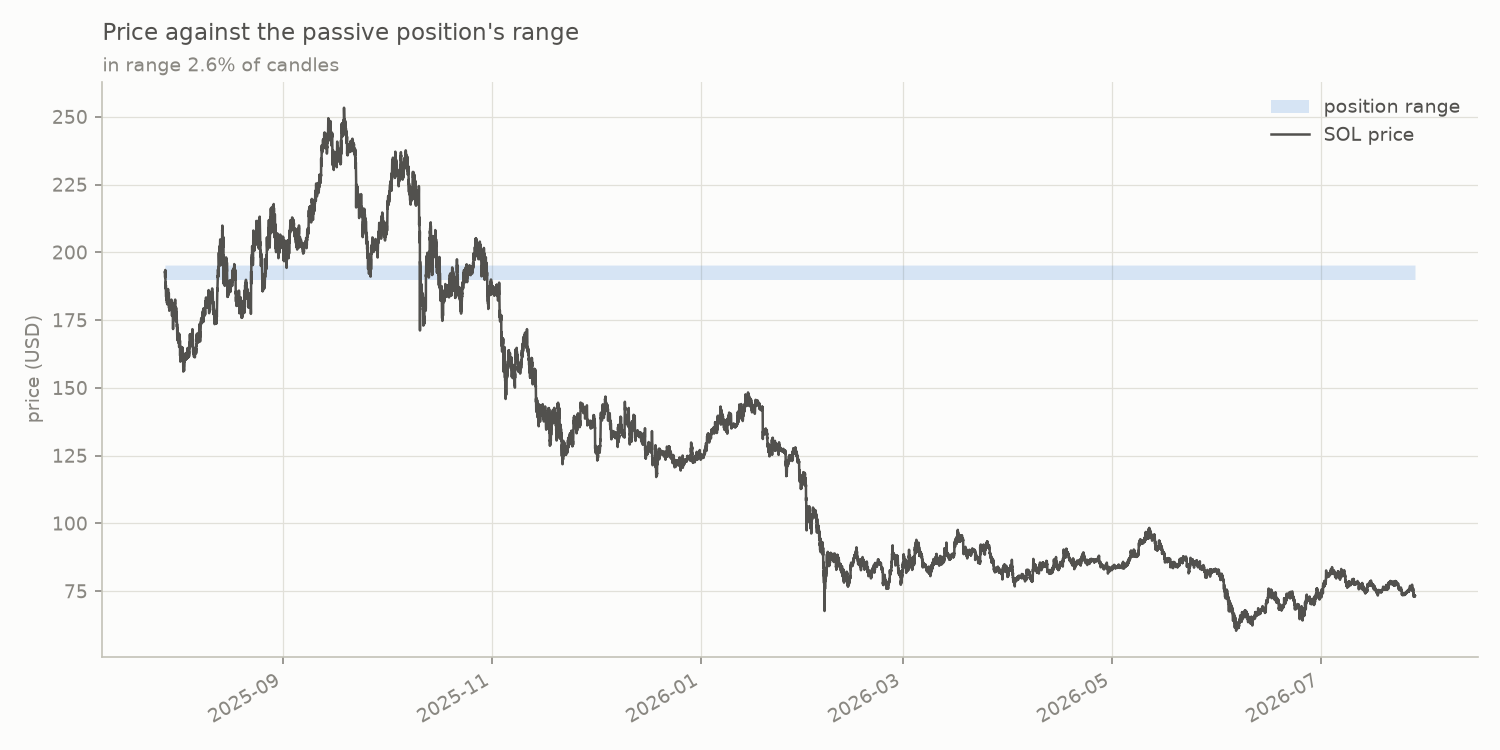
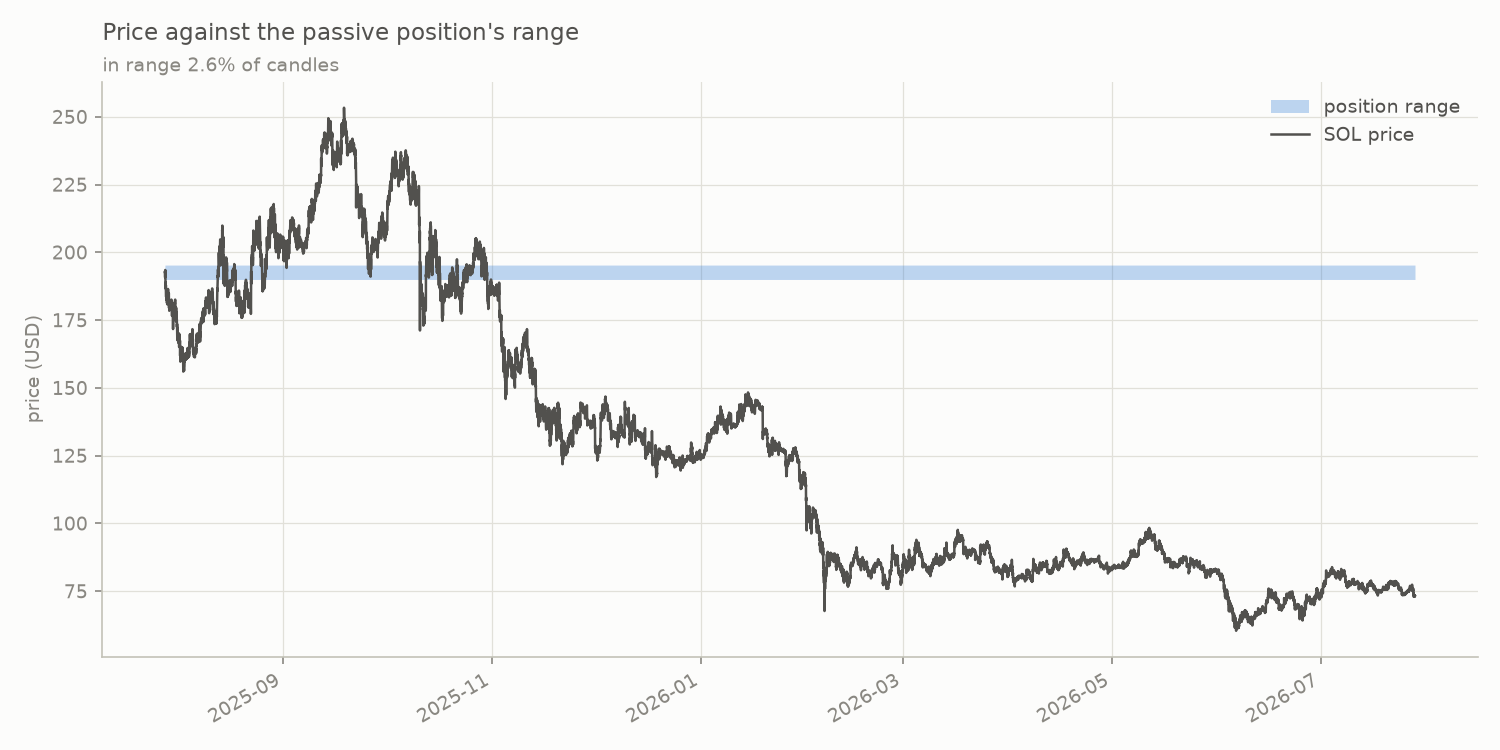
Fix the money rendering, and the two charts the page was missing
Streamlit reads a $...$ pair as LaTeX, the same bug matplotlib had: "beat
holding by $120.90, while the passive position finished $33.77 behind it"
rendered as italic maths with the dollar signs eaten, and the opening
paragraph came out as code. Escaping is now a chokepoint rather than a
thing to remember -- webdata.md, md_caption and md_info escape on the way
to Streamlit, and the page uses them everywhere. Audited by walking every
markdown, caption, info, subheader and title the page emits and asserting
no unescaped $ survives: 35 blocks, all clean.

price_with_range_band was misleading for the rebalancing strategy. The band
was drawn correctly and followed the position -- but a 69-bin range spans
2.8% of price, so against a year of a 62% fall it is a hairline sitting on
the price line, showing nothing while the subtitle claimed 100% time in
range. A range that moves is now drawn over its first 30 days, where the
band is thick enough to see recentring under the price, and the subtitle
says so and gives both counts. A range that never moves is unchanged.

Two charts added to the page:

- fee_per_bin, which was left out because it describes the pool rather than
  either strategy. That is the reason to include it: the pool earned
  $8,267,273 across 3,602 bins and the busiest single bin took $15,907, so
  it shows how narrow a 69-bin slice of that is.
- drawdown_comparison, a new chart drawing both strategies on one axis
[…]

Changed region(s): [[0.092, 0.3373, 0.9507, 0.3987], [0.828, 0.1227, 0.8893, 0.1533]]

diff --git a/views/results.py b/views/results.py
@@ -1,16 +1,24 @@
-"""The headline results for the full year, from precomputed values."""
+"""The headline results for the full year, from precomputed values.
+
+Every string that reaches markdown goes through webdata.md/md_caption/
+md_info, which escape the dollar signs -- Streamlit reads a $...$ pair as
+LaTeX and would eat the money.
+"""
 
 import streamlit as st
 
-from webdata import (STRATEGY_LABELS, chart_path, load_summary, money, pct,
+from webdata import (STRATEGY_LABELS, chart_path, load_summary, md,
+                     md_caption, md_info, money, money_round, pct,
                      period_caption, rate, signed_money, signed_pct)
 
 summary = load_summary()
 params = summary["params"]
 market = summary["market"]
 hodl = summary["hodl"]
+pool = summary["pool"]
 passive = summary["strategies"]["passive"]
 rebalancing = summary["strategies"]["rebalancing"]
+width_pct = summary["position_width_pct"]
 
 # Each chart with the one thing it is there to show. Written against the
 # precomputed numbers so a re-run cannot leave a caption stale.
@@ -20,17 +28,40 @@ CHARTS = [
         "gave it all back; rebalancing spent most of the year behind and "
         f"finished {money(rebalancing['net_pnl'])} in front."
     )),
+    ("drawdown_comparison.png", "Drawdown of net PnL", (
+        f"How much of its own best result each strategy gave back. Passive "
+        f"fell {money(passive['max_drawdown'])} below its peak and never "
+        f"recovered; rebalancing's worst was "
+        f"{money(rebalancing['max_drawdown'])}, early, and it climbed out."
+    )),
     ("price_with_range_band_passive.png", "Price against the passive range", (
         f"The range was fixed at {money(passive['initial_range_low'])}-"
         f"{money(passive['initial_range_high'])} on the first candle; price "
         f"left it within weeks and never returned, so the position earned on "
         f"{pct(passive['time_in_range_pct'])} of candles."
     )),
+    ("price_with_range_band_rebalancing.png",
+     "Price against the rebalancing range", (
+        f"The same picture when the range moves, zoomed to the first 30 "
+        f"days. A {params['position_bins']}-bin range spans only "
+        f"{pct(width_pct)} of price, so across the full year it is a "
+        f"hairline sitting on the price line - true, and showing nothing. "
+        f"Over a month you can see it recentring under the price."
+     )),
     ("cumulative_fees.png", "Fees collected", (
         f"Moving the range earned {money(rebalancing['total_fees'])} against "
         f"{money(passive['total_fees'])} sitting still - but "
         f"{pct(rebalancing['fees_first_90d_pct'], 0)} of it arrived in the "
         "first 90 days."
+    )),
+    ("fee_per_bin.png", "Where the pool's fees were earned", (
+        f"The whole pool earned {money_round(pool['total_fees'])} over the "
+        f"year, spread across {pool['bins_touched']:,} bins. The busiest "
+        f"single bin, {money(pool['busiest_bin_low'])}-"
+        f"{money(pool['busiest_bin_high'])}, took "
+        f"{money_round(pool['busiest_bin_fees'])}. A "
+        f"{params['position_bins']}-bin position covers a narrow slice of "
+        "that, which is the whole problem a fixed range has."
     )),
     ("pnl_decomposition_rebalancing.png", "Where the rebalancing money went",
      (
@@ -73,11 +104,9 @@ def metric_cards(s) -> None:
 
 def wealth_table() -> None:
     st.subheader("What happened to the deposit")
-    st.markdown(
-        "Net PnL is a comparison against holding, not a return. On a year "
-        "like this one the two point in opposite directions, so this is the "
-        "money itself:"
-    )
+    md("Net PnL is a comparison against holding, not a return. On a year "
+       "like this one the two point in opposite directions, so this is the "
+       "money itself:")
     rows = [
         ("Fees collected", money(passive["total_fees"]),
          money(rebalancing["total_fees"]), "-"),
@@ -95,8 +124,8 @@ def wealth_table() -> None:
     ]
     header = (f"| From {money(hodl['entry_value'])} at entry | Passive | "
               f"Rebalancing | Just holding |\n|---|---|---|---|\n")
-    st.markdown(header + "\n".join("| " + " | ".join(r) + " |" for r in rows))
-    st.caption(
+    md(header + "\n".join("| " + " | ".join(r) + " |" for r in rows))
+    md_caption(
         "Fees are withdrawn as they are earned rather than compounded back "
         "in, so the total is fees plus whatever the position is still worth."
     )
@@ -104,11 +133,9 @@ def wealth_table() -> None:
 
 def break_even_section() -> None:
     st.subheader("The break-even fee rate")
-    st.markdown(
-        "The rate at which fees would have exactly covered impermanent loss "
-        "and costs on this price path. It turns the whole result into one "
-        "number you can compare against the pool you are actually in."
-    )
+    md("The rate at which fees would have exactly covered impermanent loss "
+       "and costs on this price path. It turns the whole result into one "
+       "number you can compare against the pool you are actually in.")
     assumed = params["fee_rate"]
     rows = []
     for key, s in summary["strategies"].items():
@@ -119,11 +146,9 @@ def break_even_section() -> None:
                    f"{'beats' if gap > 0 else 'loses to'} holding")
         rows.append((STRATEGY_LABELS[key], rate(needed), rate(assumed),
                      verdict))
-    st.markdown(
-        "| | Needed | This run assumed | Verdict |\n|---|---|---|---|\n"
-        + "\n".join("| " + " | ".join(r) + " |" for r in rows)
-    )
-    st.caption(
+    md("| | Needed | This run assumed | Verdict |\n|---|---|---|---|\n"
+       + "\n".join("| " + " | ".join(r) + " |" for r in rows))
+    md_caption(
         "Verified by re-running at the reported rate: net PnL comes out "
         "0.0000 with impermanent loss and costs unchanged."
     )
@@ -144,42 +169,37 @@ def cost_sensitivity_section() -> None:
         "| Net vs holding | " + " | ".join(signed_money(r["net_pnl"])
                                            for r in rows) + " |",
     ]
-    st.markdown(header + "\n".join(body))
+    md(header + "\n".join(body))
 
     worst = rows[-1]
-    st.markdown(
-        f"Not comfortably. At {pct(worst['cost_rate'] * 100)} the "
-        f"{worst['rebalances']:,} rebalances cost "
-        f"{money(worst['total_costs'])} and rebalancing loses to holding as "
-        f"well. Its edge is a bet that recentring stays cheap; the "
-        f"{pct(configured * 100)} used above is the configured assumption, "
-        "not a measured one."
-    )
+    md(f"Not comfortably. At {pct(worst['cost_rate'] * 100)} the "
+       f"{worst['rebalances']:,} rebalances cost "
+       f"{money(worst['total_costs'])} and rebalancing loses to holding as "
+       f"well. Its edge is a bet that recentring stays cheap; the "
+       f"{pct(configured * 100)} used above is the configured assumption, "
+       "not a measured one.")
 
 
 st.title("Results")
-st.caption(period_caption(params))
+md_caption(period_caption(params))
 
-st.markdown(
-    f"This is {money(params['deposit'])} placed in a "
-    f"{params['position_bins']}-bin SOL/USDC liquidity position and left to "
-    f"run for a year, to {params['end'][:10]}. Over that year SOL fell "
-    f"{pct(abs(market['change_pct']))}, from "
-    f"{money(market['start_price'])} to {money(market['end_price'])}. Two "
-    "strategies are compared on exactly the same candles: a **passive** "
-    "position that never moves, and a **rebalancing** one that recentres its "
-    "range whenever price closes outside it."
-)
+md(f"This is {money(params['deposit'])} placed in a "
+   f"{params['position_bins']}-bin SOL/USDC liquidity position and left to "
+   f"run for a year, to {params['end'][:10]}. Over that year SOL fell "
+   f"{pct(abs(market['change_pct']))}, from {money(market['start_price'])} "
+   f"to {money(market['end_price'])}. Two strategies are compared on "
+   "exactly the same candles: a **passive** position that never moves, and "
+   "a **rebalancing** one that recentres its range whenever price closes "
+   "outside it.")
 
-st.info(
-    f"**Both strategies lost money.** The deposit finished "
-    f"{signed_pct(passive['absolute_return_pct'])} under the passive "
-    f"strategy and {signed_pct(rebalancing['absolute_return_pct'])} under "
-    f"rebalancing, against {signed_pct(hodl['absolute_return_pct'])} for "
-    f"simply holding. Rebalancing still beat holding by "
-    f"{money(rebalancing['net_pnl'])}, while the passive position finished "
-    f"{money(abs(passive['net_pnl']))} behind it."
-)
+md_info(f"**Both strategies lost money.** The deposit finished "
+        f"{signed_pct(passive['absolute_return_pct'])} under the passive "
+        f"strategy and {signed_pct(rebalancing['absolute_return_pct'])} "
+        f"under rebalancing, against "
+        f"{signed_pct(hodl['absolute_return_pct'])} for simply holding. "
+        f"Rebalancing still beat holding by "
+        f"{money(rebalancing['net_pnl'])}, while the passive position "
+        f"finished {money(abs(passive['net_pnl']))} behind it.")
 
 left, right = st.columns(2)
 for column, (key, s) in zip((left, right), summary["strategies"].items()):
@@ -200,10 +220,10 @@ st.divider()
 st.subheader("Charts")
 for filename, caption, takeaway in CHARTS:
     st.image(chart_path(filename), caption=caption, width="stretch")
-    st.markdown(takeaway)
+    md(takeaway)
     st.write("")
 
-st.caption(
+md_caption(
     "Every number and chart on this page was produced ahead of time by "
     "`precompute.py` and `run_backtest.py`. The page never runs the engine."
 )

diff --git a/charts.py b/charts.py
@@ -136,30 +136,55 @@ def _bin_edges_ui(bins, bin_step):
 # Single-run charts
 # ======================================================================
 
+# Days shown when the range moves. A 69-bin range at step 4 spans about
+# 2.8% of price, so against a full year of a 62% fall it is a hairline
+# sitting on the price line -- true, and showing nothing. Over a month the
+# axis is tight enough for the band and its steps to be visible.
+MOVING_RANGE_WINDOW_DAYS = 30
+
+
 def price_with_range_band(result):
     """Price path with the position's range drawn as a shaded band.
 
     Where the line leaves the band, the position was out of range and
     earning nothing -- the thing a "time in range" percentage states but
     does not show.
+
+    A range that never moves is drawn over the whole run. A range that
+    recentres is drawn over the opening window instead, because a band
+    that tracks the price is invisible at full-year scale.
     """
-    p = result["params"]
-    s = _decimate(result["series"], "close")
+    p, m = result["params"], result["metrics"]
+    full = result["series"]
+    moves = bool(m["rebalances"])
+
+    if moves:
+        window = min(len(full), MOVING_RANGE_WINDOW_DAYS * 1440)
+        full = full.iloc[:window]
+    s = _decimate(full, "close")
     fig, ax = _axes(figsize=(10, 5))
 
     lo = _bin_edges_ui(s["range_start"].values, p["bin_step"])
     hi = _bin_edges_ui(s["range_end"].values + 1, p["bin_step"])
 
-    ax.fill_between(s["timestamp"], lo, hi, color=COLOR["band"], alpha=0.18,
+    ax.fill_between(s["timestamp"], lo, hi, color=COLOR["band"], alpha=0.30,
                     lw=0, label="position range")
     ax.plot(s["timestamp"], s["close"], color=COLOR["price"], lw=1.2,
             label="SOL price")
+
+    if moves:
+        moved = (full["range_start"] != full["range_start"].shift()).sum() - 1
+        subtitle = (f"first {MOVING_RANGE_WINDOW_DAYS} days -- the range "
+                    f"recentres {moved:,} times in this window and "
+                    f"{m['rebalances']:,} times over the year, so the band "
+                    f"tracks the price")
+    else:
+        subtitle = f"in range {m['time_in_range_pct']:.1f}% of candles"
+
     return _finish(
         fig, ax,
         f"Price against the {p['strategy']} position's range",
-        "price (USD)",
-        subtitle=f"in range {result['metrics']['time_in_range_pct']:.1f}% "
-                 f"of candles")
+        "price (USD)", subtitle=subtitle)
 
 
 def pnl_decomposition(result):
@@ -320,6 +345,28 @@ def net_pnl_comparison(results):
                    f"Net PnL vs holding on "
                    f"${results[0]['params']['deposit']:,} over {days:.0f} days",
                    "net PnL (USD)")
+
+
+def drawdown_comparison(results):
+    """How far below its own running peak each strategy's net PnL sat.
+
+    One line per strategy rather than one chart each: the point is which
+    strategy gave back more of what it had made, which needs them on the
+    same axis.
+    """
+    fig, ax = _axes(figsize=(10, 4.5))
+    for result in results:
+        # The running peak has to be taken on the full series -- decimating
+        # first would let a dropped peak shrink every drawdown after it.
+        full = result["series"]
+        net = full["net_pnl"]
+        s = _decimate(full.assign(drawdown=net.cummax() - net), "drawdown")
+        name = _label(result)
+        ax.plot(s["timestamp"], -s["drawdown"], color=COLOR[name], lw=LINE_W,
+                label=f"{name} (worst "
+                      f"${result['metrics']['max_drawdown']:,.2f})")
+    return _finish(fig, ax, "Drawdown of net PnL vs holding",
+                   "USD below peak")
 
 
 # ======================================================================

diff --git a/precompute.py b/precompute.py
@@ -23,7 +23,8 @@ OUT_PATH = Path("results/year_summary.json")
 # What a results page quotes. Everything else stays in the run.
 HEADLINE = ("total_fees", "total_il", "total_costs", "net_pnl", "net_apy",
             "gross_fee_apy", "break_even_fee_rate", "final_value",
-            "rebalances", "time_in_range_pct")
+            "rebalances", "time_in_range_pct", "max_drawdown",
+            "max_drawdown_date")
 
 # Rebalance costs the sensitivity table reports, as fractions of the value
 # traded. The middle one is the configured REBALANCE_COST.
@@ -78,9 +79,22 @@ def cost_sensitivity(df, per_candle_bin_fees) -> list:
     return rows
 
 
+def pool_summary(total_bin_fees, bin_step) -> dict:
+    """What the whole pool earned, and where along the price it landed."""
+    busiest = max(total_bin_fees, key=total_bin_fees.get)
+    low_edge, high_edge = get_bin_range(busiest, bin_step)
+    return {
+        "total_fees": sum(total_bin_fees.values()),
+        "bins_touched": len(total_bin_fees),
+        "busiest_bin_fees": total_bin_fees[busiest],
+        "busiest_bin_low": raw_to_ui(low_edge),
+        "busiest_bin_high": raw_to_ui(high_edge),
+    }
+
+
 def build() -> dict:
     df = prepare()
-    _, per_candle_bin_fees = accumulate_bin_fees(df)
+    total_bin_fees, per_candle_bin_fees = accumulate_bin_fees(df)
 
     strategies, params = {}, None
     for strategy in ("passive", "rebalancing"):
@@ -94,8 +108,14 @@ def build() -> dict:
     first_close = float(df["close"].iloc[0])
     last_close = float(df["close"].iloc[-1])
 
+    # How much price a position spans, which is why a 69-bin band is a
+    # hairline on a year chart: 69 bins at step 4 is about 2.8%.
+    span = get_bin_range(params["position_bins"], params["bin_step"])[0]
+    width_pct = (span / get_bin_range(0, params["bin_step"])[0] - 1) * 100
+
     return {
         "params": params,
+        "position_width_pct": width_pct,
         "market": {
             "start_price": first_close,
             "end_price": last_close,
@@ -106,6 +126,7 @@ def build() -> dict:
             "end_value": hodl_end,
             "absolute_return_pct": (hodl_end / entry_value - 1) * 100,
         },
+        "pool": pool_summary(total_bin_fees, params["bin_step"]),
         "strategies": strategies,
         "cost_sensitivity": cost_sensitivity(df, per_candle_bin_fees),
     }

diff --git a/webdata.py b/webdata.py
@@ -29,8 +29,38 @@ def chart_path(name) -> str:
     return str(CHART_DIR / name)
 
 
+def escape(text) -> str:
+    """Escape the dollar signs in text bound for markdown.
+
+    Streamlit reads a $...$ pair as LaTeX, so "$831.95 against $297.50"
+    renders as italic maths with the dollar signs eaten. Every page here
+    quotes money, so every markdown string goes through this.
+    """
+    return text.replace("$", r"\$")
+
+
+def md(text, **kwargs) -> None:
+    """st.markdown, with the money escaped."""
+    st.markdown(escape(text), **kwargs)
+
+
+def md_caption(text, **kwargs) -> None:
+    """st.caption, with the money escaped."""
+    st.caption(escape(text), **kwargs)
+
+
+def md_info(text, **kwargs) -> None:
+    """st.info, with the money escaped."""
+    st.info(escape(text), **kwargs)
+
+
 def money(x) -> str:
     return f"${x:,.2f}"
+
+
+def money_round(x) -> str:
+    """Money with the cents dropped, for figures big enough not to need them."""
+    return f"${x:,.0f}"
 
 
 def signed_money(x) -> str:

diff --git a/run_backtest.py b/run_backtest.py
@@ -36,6 +36,7 @@ PER_RUN = [
 COMPARISON = [
     ("cumulative_fees", charts.cumulative_fees),
     ("net_pnl_comparison", charts.net_pnl_comparison),
+    ("drawdown_comparison", charts.drawdown_comparison),
 ]
 
 
